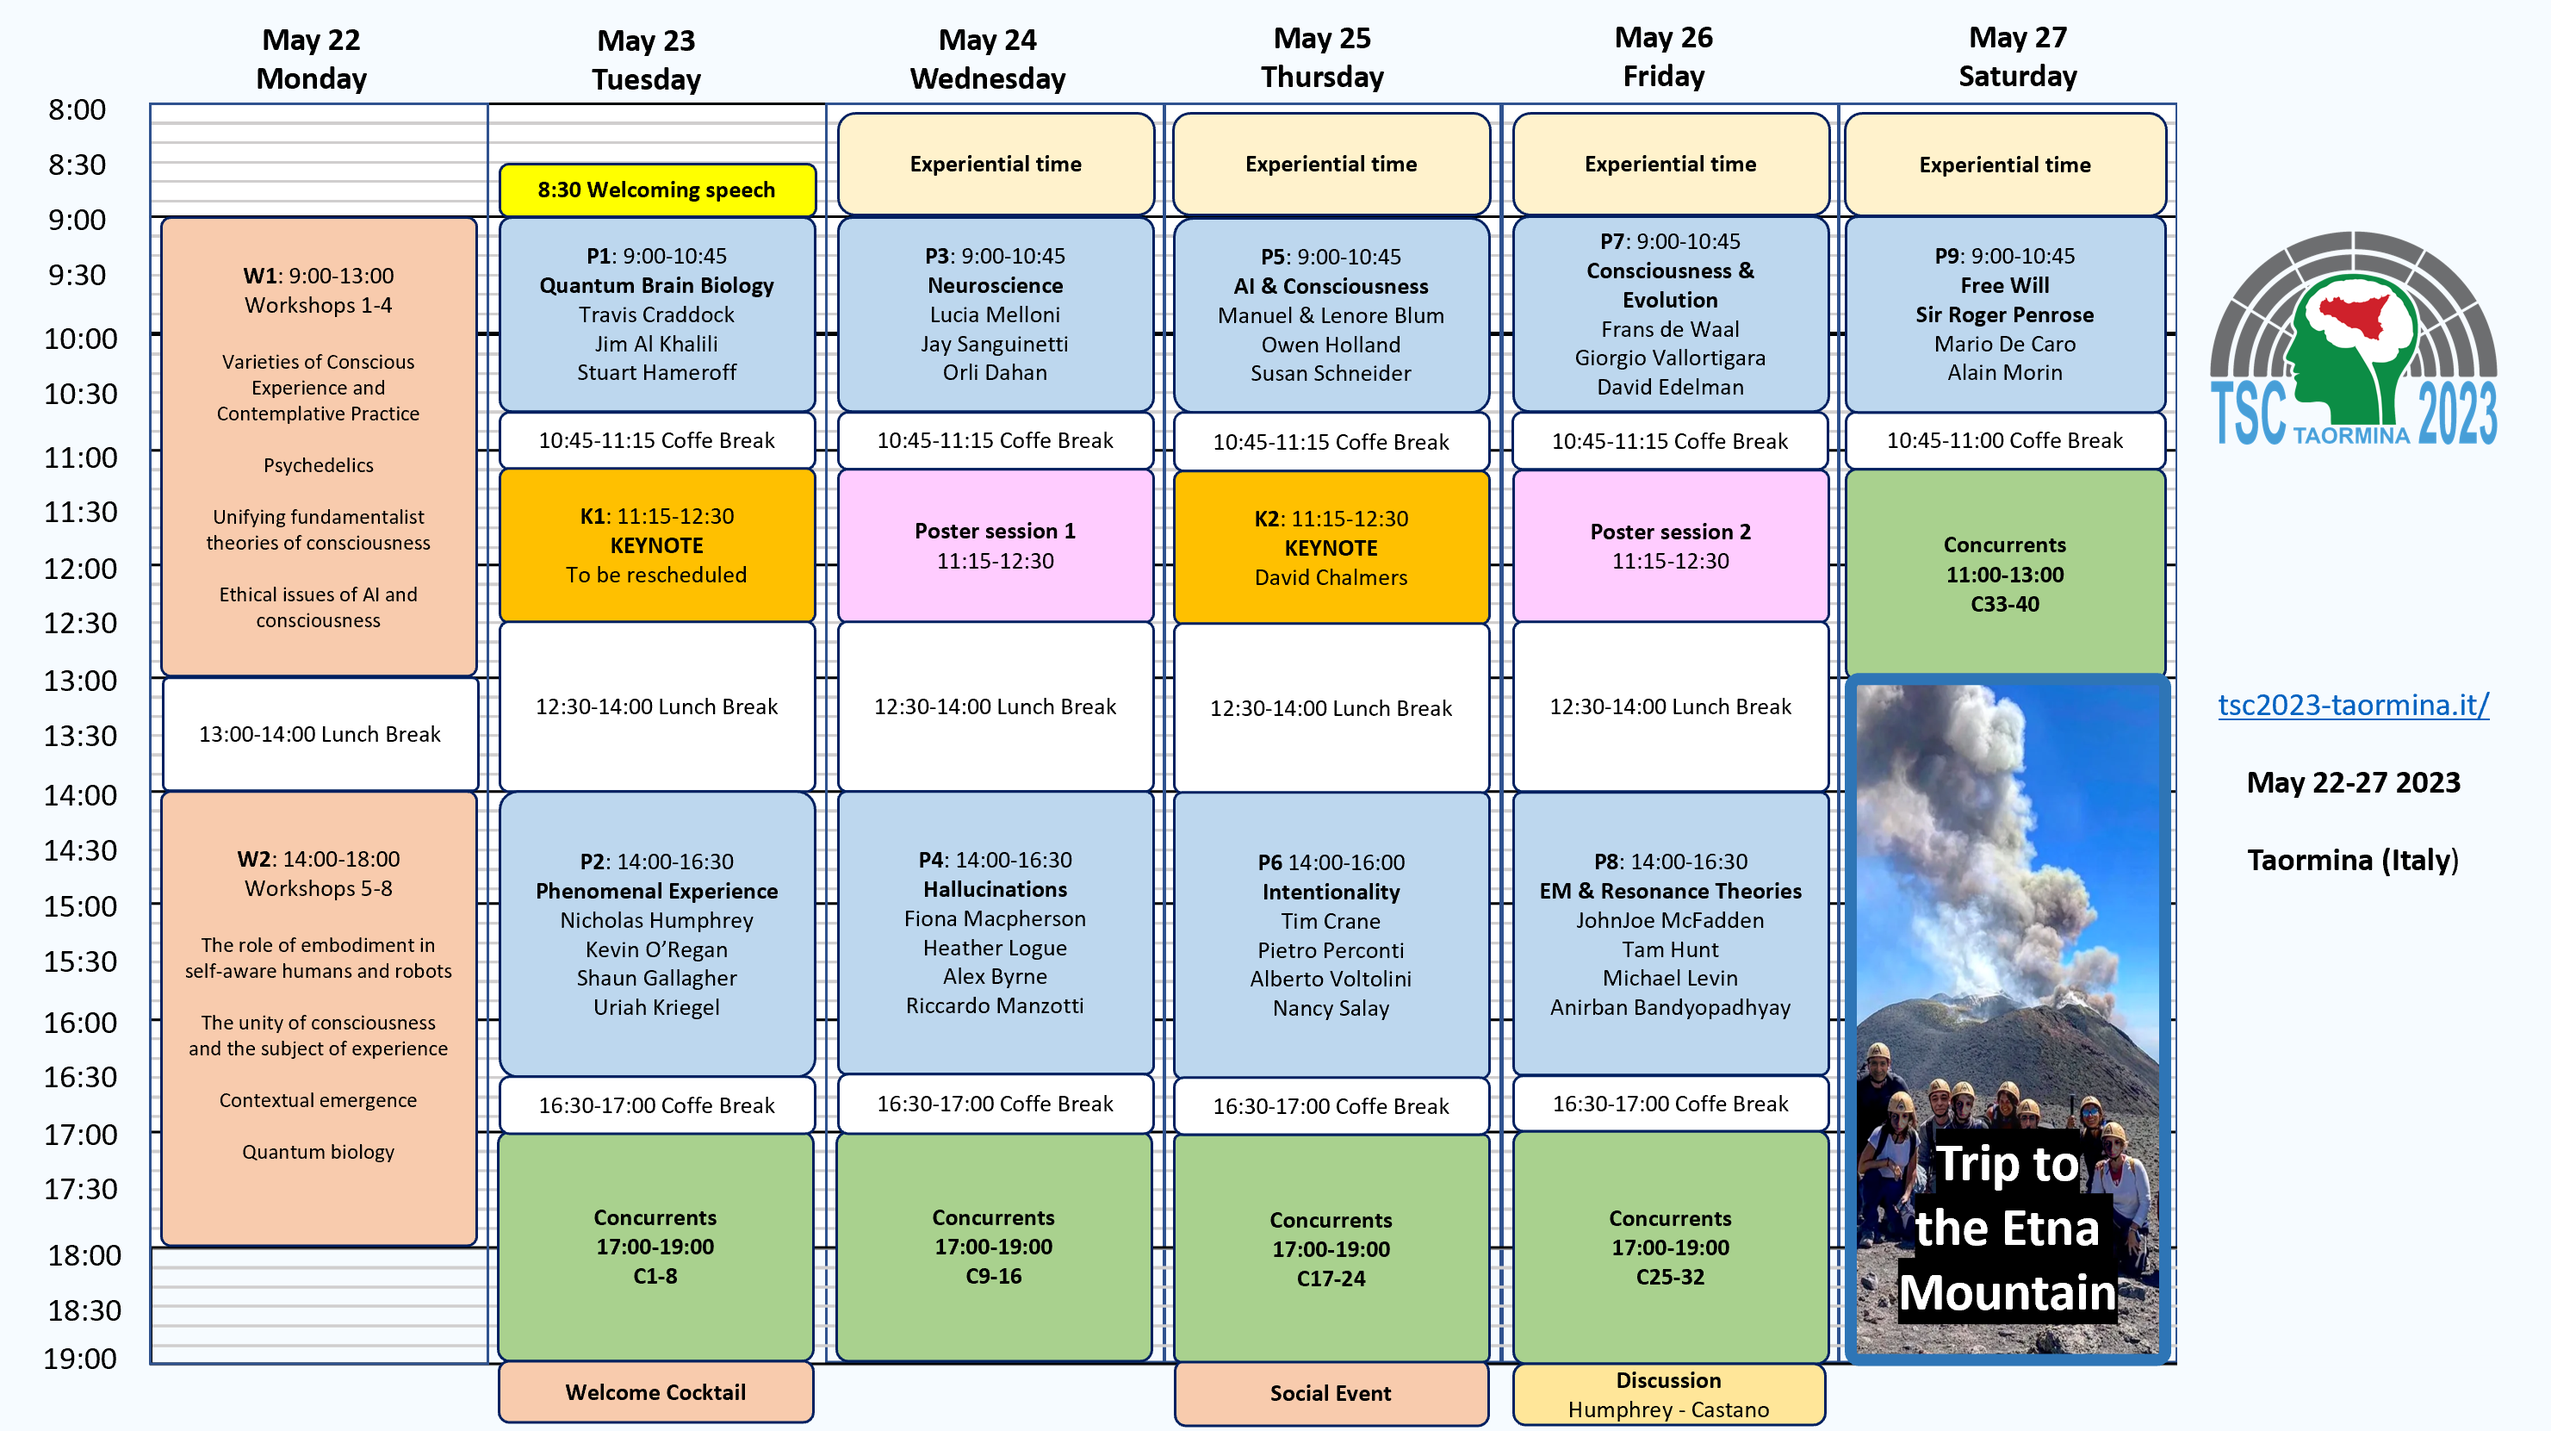
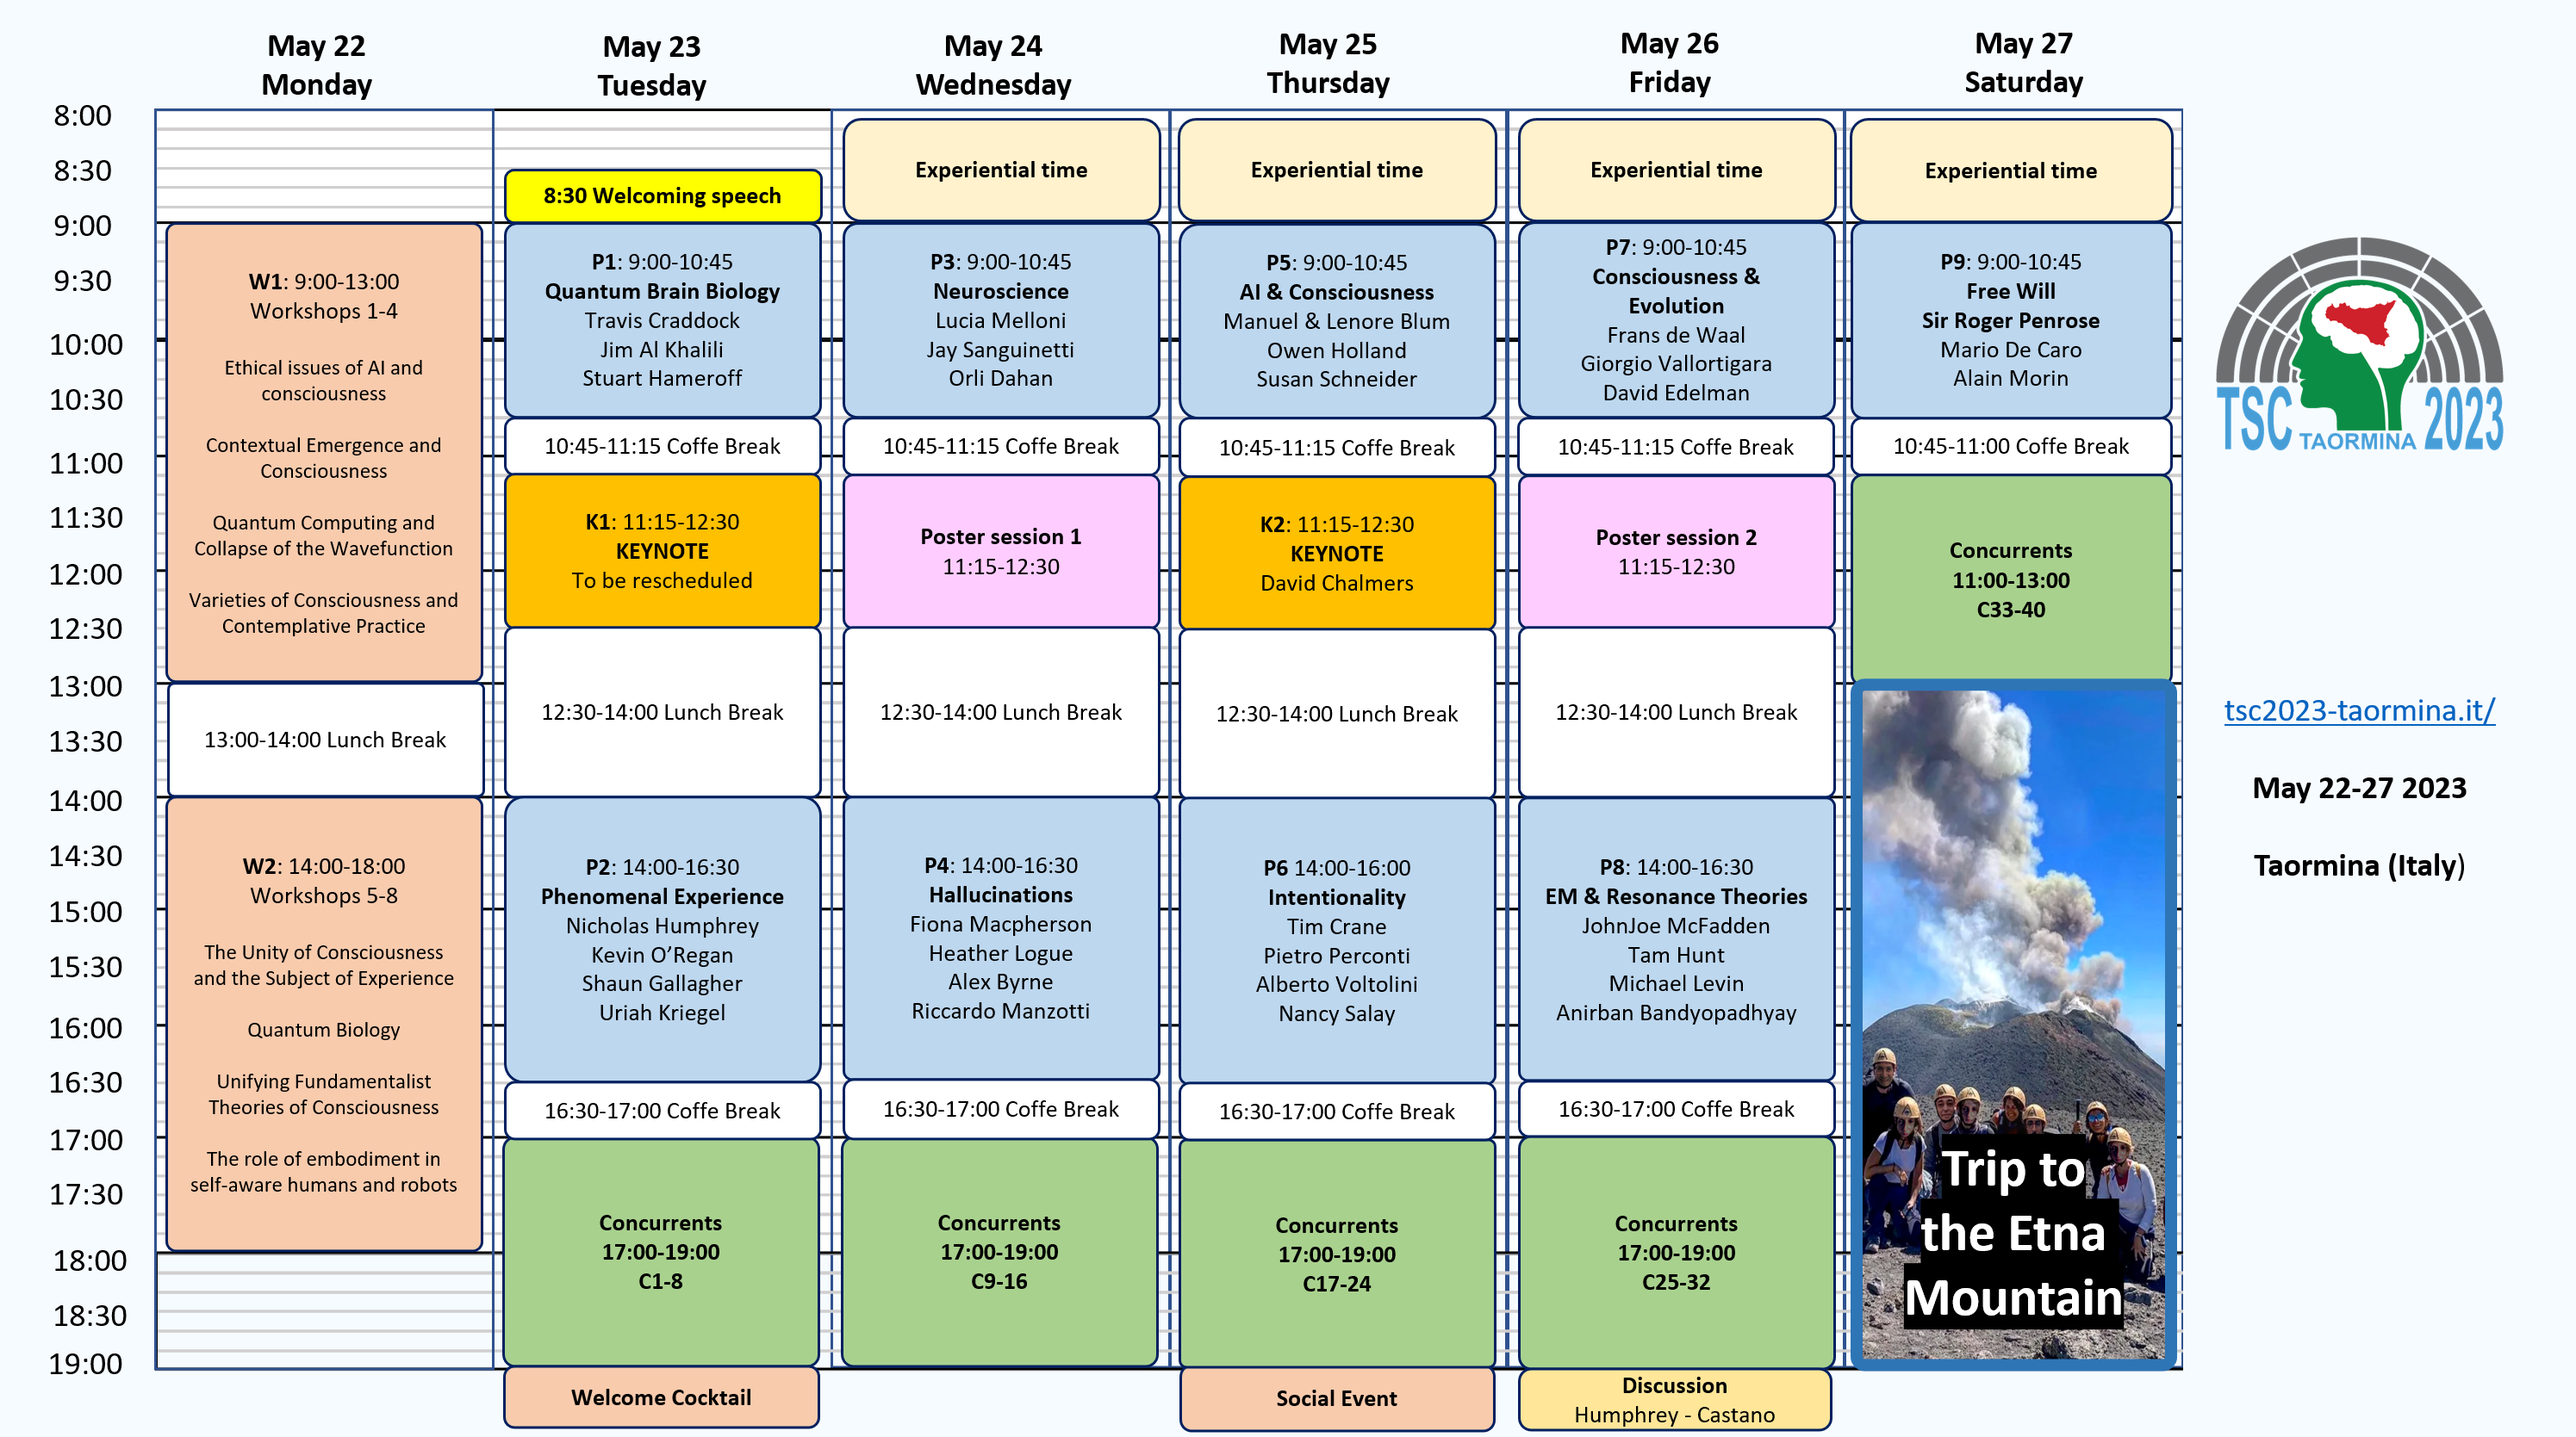
new updates

Changed region(s): [[0.0, 0.0, 0.9939, 1.0], [0.3727, 0.829, 0.4038, 0.9211], [0.2485, 0.829, 0.2795, 0.8904]]

diff --git a/program.html b/program.html
@@ -98,14 +98,14 @@ License URL: http://creativecommons.org/licenses/by/3.0/
 					<li><strong>W1: Ethical Issues of AI and Consciousness</strong>, Antonio Chella, Angelo Cangelosi,
 						John P.
 						Sullins, Robin Zebrowski</li>
-					<li><strong>W2: Quantum biology</strong>, Travis Craddock, Jim Al-Khalili, Giuseppe Vitiello,
-						JohnJoe McFadden, Anirban Bandyopadhyay</li>
+					<li><strong>W2: Contextual Emergence and Consciousness</strong>, Robert C. Bishop, Alicia Juarrero, Gil Santos</li>
 					<li><strong>W3: Quantum computing and collapse of the wavefunction</strong>, Thomas Brophy, Catalina Curceanu, Paavo Pylkkanen, Stuart Hameroff, Sir Roger Penrose</li>
 					<li><strong>W4: Varieties of Consciousness and Contemplative Practice</strong>, Jay Sanguinetti,
 						Tracy Brandmeyer, Malcolm Wright, Daniel Ingram, Rael Cahn</li>
 					<li><strong>W5: The Unity of Consciousness and the Subject of Experience</strong>, Donnchadh O
 						Conaill, Mark Textor, Elizabeth Schechter</li>
-					<li><strong>W6: Contextual Emergence and Consciousness</strong>, Robert C. Bishop, Alicia Juarrero, Gil Santos</li>
+					<li><strong>W6: Quantum biology</strong>, Travis Craddock, Jim Al-Khalili, Giuseppe Vitiello,
+							JohnJoe McFadden, Anirban Bandyopadhyay</li>
 					<li><strong>W7: Unifying Fundamentalist Theories of Consciousness</strong>, Michael Silberstein,
 						William
 						Seager, Dean Rickles, Marc Wittmann</li>
